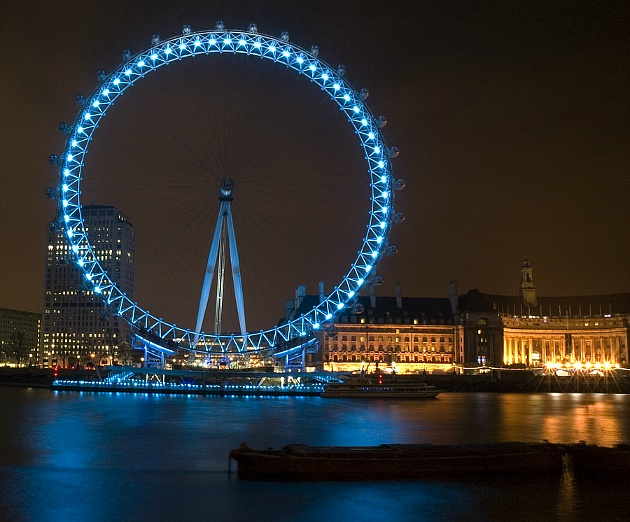
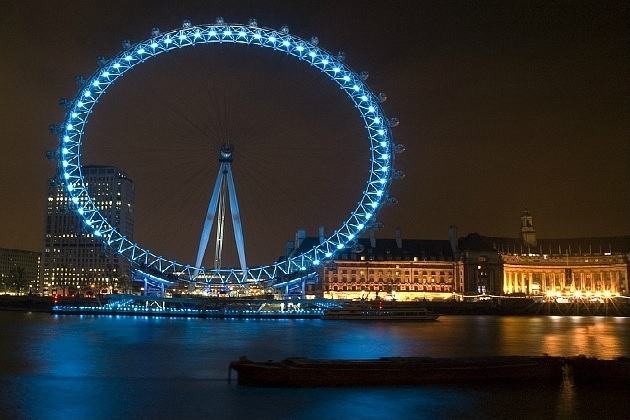
2021.04.08 CSS 수업 중간 업로드 3

Changed region(s): [[0.0905, 0.0619, 1.0, 0.7738], [0.0, 0.619, 0.1508, 0.7119], [0.7841, 0.619, 0.9651, 0.65]]

diff --git a/CSS class/Myhome/index1.html b/CSS class/Myhome/index1.html
@@ -1,0 +1,123 @@
+<!doctype html>
+<html lang="en">
+
+<head>
+  <!-- Required meta tags -->
+  <meta charset="utf-8">
+  <meta name="viewport" content="width=device-width, initial-scale=1">
+
+  <!-- Bootstrap CSS -->
+  <link href="https://cdn.jsdelivr.net/npm/bootstrap@5.0.0-beta1/dist/css/bootstrap.min.css" rel="stylesheet"
+    integrity="sha384-giJF6kkoqNQ00vy+HMDP7azOuL0xtbfIcaT9wjKHr8RbDVddVHyTfAAsrekwKmP1" crossorigin="anonymous">
+
+    <style>
+      *{
+        font-family: 'Raleway', sans-serif;
+      }
+    </style>
+    <!-- font-family: 'Raleway', sans-serif; -->
+    <link rel="preconnect" href="https://fonts.gstatic.com">
+    <link href="https://fonts.googleapis.com/css2?family=Raleway:ital,wght@1,800&display=swap" rel="stylesheet">
+    <title>Hello, Warlords!</title>
+</head>
+
+<body>
+  <nav class="navbar navbar-expand-lg navbar-dark bg-primary">
+    <div class="container-fluid">
+      <a class="navbar-brand" href="#">
+        <img src="./img/crash-helmet.png" alt="" width="30" height="24">
+        Soldier</a>
+      <button class="navbar-toggler" type="button" data-bs-toggle="collapse" data-bs-target="#navbarSupportedContent" aria-controls="navbarSupportedContent" aria-expanded="false" aria-label="Toggle navigation">
+        <span class="navbar-toggler-icon"></span>
+      </button>
+      <div class="collapse navbar-collapse" id="navbarSupportedContent">
+        <ul class="navbar-nav me-auto mb-2 mb-lg-0">
+          <li class="nav-item">
+            <a class="nav-link active" aria-current="page" href="#">Home</a>
+          </li>
+          <li class="nav-item">
+            <a class="nav-link" href="#">Link</a>
+          </li>
+          <li class="nav-item dropdown">
+            <a class="nav-link dropdown-toggle" href="#" id="navbarDropdown" role="button" data-bs-toggle="dropdown" aria-expanded="false">
+              Dropdown
+            </a>
+            <ul class="dropdown-menu" aria-labelledby="navbarDropdown">
+              <li><a class="dropdown-item" href="#">Action</a></li>
+              <li><a class="dropdown-item" href="#">Another action</a></li>
+              <li><hr class="dropdown-divider"></li>
+              <li><a class="dropdown-item" href="#">Something else here</a></li>
+            </ul>
+          </li>
+          <li class="nav-item">
+            <a class="nav-link disabled" href="#" tabindex="-1" aria-disabled="true">Disabled</a>
+          </li>
+        </ul>
+        <form class="d-flex">
+          <input class="form-control me-2" type="search" placeholder="Search" aria-label="Search">
+          <button class="btn btn-outline-success" type="submit">Search</button>
+        </form>
+      </div>
+    </div>
+  </nav>
+
+  <p style="padding: 50px;">
+    <h1 style="text-align: center;">The Warlords</h1>
+  </p>
+
+  <div class="container">
+    <div id="carouselExampleCaptions" class="carousel slide" data-bs-ride="carousel">
+      <ol class="carousel-indicators">
+        <li data-bs-target="#carouselExampleCaptions" data-bs-slide-to="0" class="active"></li>
+        <li data-bs-target="#carouselExampleCaptions" data-bs-slide-to="1"></li>
+        <li data-bs-target="#carouselExampleCaptions" data-bs-slide-to="2"></li>
+      </ol>
+      <div class="carousel-inner">
+        <div class="carousel-item active">
+          <img src="./img/Erwin_Rommel.jpg" class="d-block w-100" alt="...">
+          <div class="carousel-caption d-none d-md-block">
+            <h5>Erwin Johannes Eugen Rommel</h5>
+            <p>Generalfeldmarschall</p>
+          </div>
+        </div>
+        <div class="carousel-item">
+          <img src="./img/George_S._Patton.jpg" class="d-block w-100" alt="...">
+          <div class="carousel-caption d-none d-md-block">
+            <h5>George S. Patton</h5>
+            <p>General</p>
+          </div>
+        </div>
+        <div class="carousel-item">
+          <img src="./img/MacArthur_Manila.jpg" class="d-block w-100" alt="...">
+          <div class="carousel-caption d-none d-md-block">
+            <h5>Douglas MacArthur</h5>
+            <p>General of the Army</p>
+          </div>
+        </div>
+      </div>
+      <a class="carousel-control-prev" href="#carouselExampleCaptions" role="button" data-bs-slide="prev">
+        <span class="carousel-control-prev-icon" aria-hidden="true"></span>
+        <span class="visually-hidden">Previous</span>
+      </a>
+      <a class="carousel-control-next" href="#carouselExampleCaptions" role="button" data-bs-slide="next">
+        <span class="carousel-control-next-icon" aria-hidden="true"></span>
+        <span class="visually-hidden">Next</span>
+      </a>
+    </div>
+  </div>
+
+  <!-- Optional JavaScript; choose one of the two! -->
+
+  <!-- Option 1: Bootstrap Bundle with Popper -->
+  <script src="https://cdn.jsdelivr.net/npm/bootstrap@5.0.0-beta1/dist/js/bootstrap.bundle.min.js"
+    integrity="sha384-ygbV9kiqUc6oa4msXn9868pTtWMgiQaeYH7/t7LECLbyPA2x65Kgf80OJFdroafW" crossorigin="anonymous">
+  </script>
+
+  <!-- Option 2: Separate Popper and Bootstrap JS -->
+  <!--
+    <script src="https://cdn.jsdelivr.net/npm/@popperjs/core@2.5.4/dist/umd/popper.min.js" integrity="sha384-q2kxQ16AaE6UbzuKqyBE9/u/KzioAlnx2maXQHiDX9d4/zp8Ok3f+M7DPm+Ib6IU" crossorigin="anonymous"></script>
+    <script src="https://cdn.jsdelivr.net/npm/bootstrap@5.0.0-beta1/dist/js/bootstrap.min.js" integrity="sha384-pQQkAEnwaBkjpqZ8RU1fF1AKtTcHJwFl3pblpTlHXybJjHpMYo79HY3hIi4NKxyj" crossorigin="anonymous"></script>
+    -->
+</body>
+
+</html>

diff --git a/CSS class/Myhome/Index.html b/CSS class/Myhome/Index.html
@@ -10,7 +10,36 @@
   <link href="https://cdn.jsdelivr.net/npm/bootstrap@5.0.0-beta3/dist/css/bootstrap.min.css" rel="stylesheet"
     integrity="sha384-eOJMYsd53ii+scO/bJGFsiCZc+5NDVN2yr8+0RDqr0Ql0h+rP48ckxlpbzKgwra6" crossorigin="anonymous">
 
-  <title>Hello, world!</title>
+  <style>
+    *{
+      font-family: 'Gugi', cursive; font-size: 10pt;
+    }
+    a.deco1:link {
+      text-decoration: none;
+    }
+    a.deco1:visited {
+      color: white;
+    }
+    a.deco1 {
+      text-decoration: none;
+    }
+    .fontsty1 {
+      font-family: 'Nanum Pen Script', cursive; font-size: 40pt;
+    }
+    .fontsty2 {
+      font-family: 'Nanum Pen Script', cursive; font-size: 30pt;
+    }
+    .fontsty3 {
+      font-family: 'Nanum Pen Script', cursive; font-size: 20pt;
+    }
+  </style>
+  <!-- font-family: 'Gugi' -->
+  <link rel="preconnect" href="https://fonts.gstatic.com">
+  <link href="https://fonts.googleapis.com/css2?family=Gugi&display=swap" rel="stylesheet">
+  <!-- font-family: 'Nanum Pen Script' -->
+  <link rel="preconnect" href="https://fonts.gstatic.com">
+  <link href="https://fonts.googleapis.com/css2?family=Nanum+Pen+Script&display=swap" rel="stylesheet">
+  <title>안녕, 명소!</title>
 </head>
 
 <body>
@@ -31,11 +60,11 @@
             <a class="nav-link" href="#">명소리스트</a>
           </li>
           <li class="nav-item">
-            <a class="nav-link" href="#">지역</a>
+            <a class="nav-link" href="#">대표명소</a>
           </li>
           <li class="nav-item dropdown">
             <a class="nav-link dropdown-toggle" href="#" id="navbarDropdown" role="button" data-bs-toggle="dropdown" aria-expanded="false">
-              지역 구별
+              지역별
             </a>
             <ul class="dropdown-menu" aria-labelledby="navbarDropdown">
               <li><a class="dropdown-item" href="#">미국</a></li>
@@ -46,16 +75,18 @@
           </li>
         </ul>
         <form class="d-flex">
-          <input class="form-control me-2" type="search" placeholder="검색은 이곳에서" aria-label="Search">
+          <input class="form-control me-2" type="search" placeholder="Search" aria-label="Search">
           <button class="btn btn-outline-success" type="submit">Search</button>
         </form>
       </div>
     </div>
   </nav>
-  <p style="margin: 50px">
-  <h3 style="text-align: center; font-weight: bold;">대표 명소</h3>
-  </p>
+
+  <p style="margin: 50px"></p>
+
+  <h1 class="fontsty1" style="text-align: center; font-weight: bold;">대표 명소</h1>
   <br>
+  
   <div class="container">
     <div id="carouselExampleIndicators" class="carousel slide" data-bs-ride="carousel">
       <ol class="carousel-indicators">
@@ -67,22 +98,28 @@
         <div class="carousel-item active">
           <img src="./img/024B18395199B80424.jpg" class="d-block w-100" alt="...">
           <div class="carousel-caption d-none d-md-block">
-            <h5 style="color: black; font-weight: bold;">미국 뉴욕</h5>
-            <p style="color: black; font-weight: bold;">자유의 여신상</p>
+            <h5 style="font-weight: bold;">
+              <a class="deco1 fontsty2" href="#">미국 뉴욕</a>
+            </h5>
+            <p class="fontsty3">자유의 여신상</p>
           </div>
         </div>
         <div class="carousel-item">
           <img src="./img/25674F375199B7FD27.jpg" class="d-block w-100" alt="...">
           <div class="carousel-caption d-none d-md-block">
-            <h5 style="color: black; font-weight: bold;">프랑스 파리</h5>
-            <p style="color: black; font-weight: bold;">에펠타워</p>
+            <h5 style="font-weight: bold;">
+              <a class="deco1 fontsty2" href="#">프랑스 파리</a>
+            </h5>
+            <p class="fontsty3">에펠타워</p>
           </div>
         </div>
         <div class="carousel-item">
-          <img src="./img/257646375199B7FC06.jpg" height="850px;" class="d-block w-100" alt="...">
+          <img src="./img/257646375199B7FC06.jpg" class="d-block w-100" alt="...">
           <div class="carousel-caption d-none d-md-block">
-            <h5 style="font-weight: bold;">영국 런던</h5>
-            <p style="font-weight: bold;">런던 아이</p>
+            <h5 style="font-weight: bold;">
+              <a class="deco1 fontsty2" href="#">영국 런던</a>
+            </h5>
+            <p class="fontsty3">런던 아이</p>
           </div>
         </div>
       </div>
@@ -96,7 +133,6 @@
       </a>
     </div>
   </div>
-  
 
   <!-- Optional JavaScript; choose one of the two! -->
 
